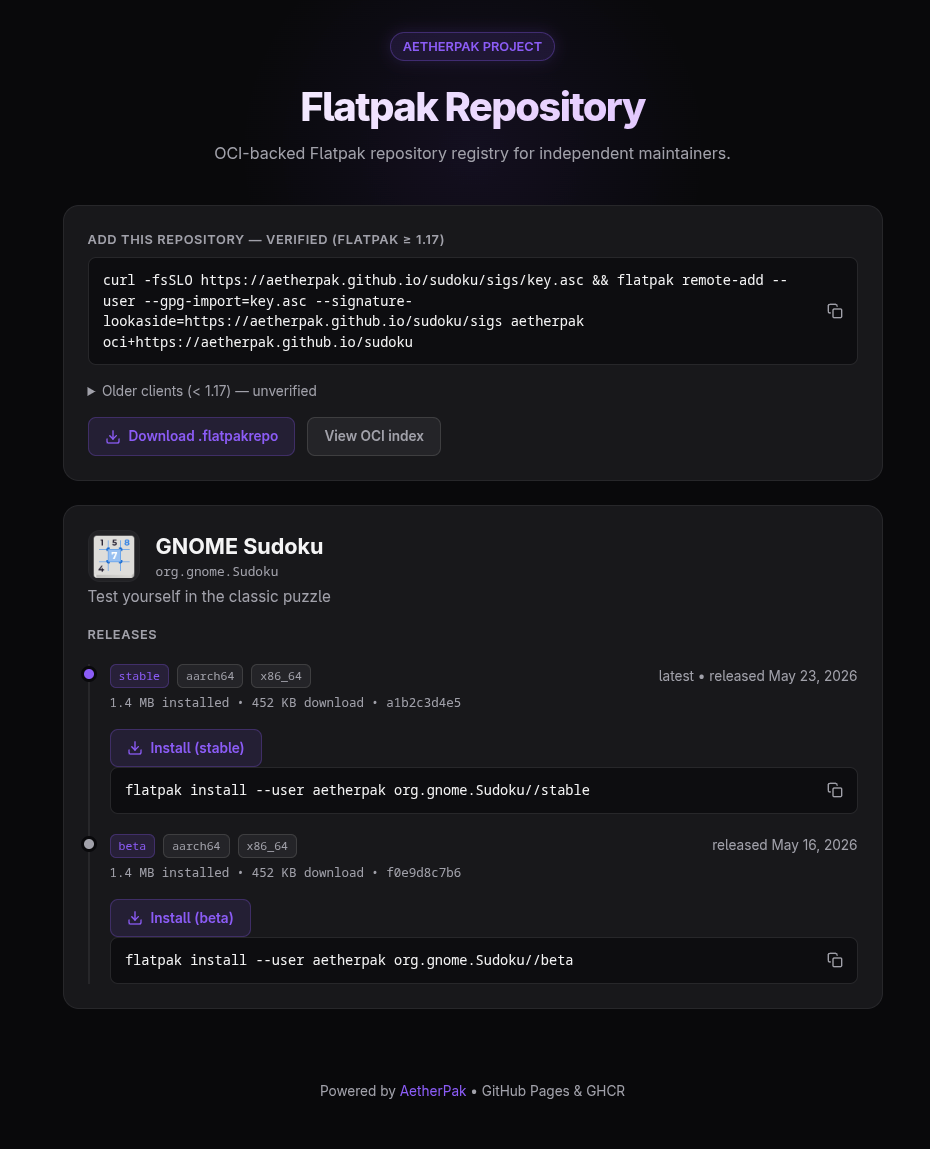
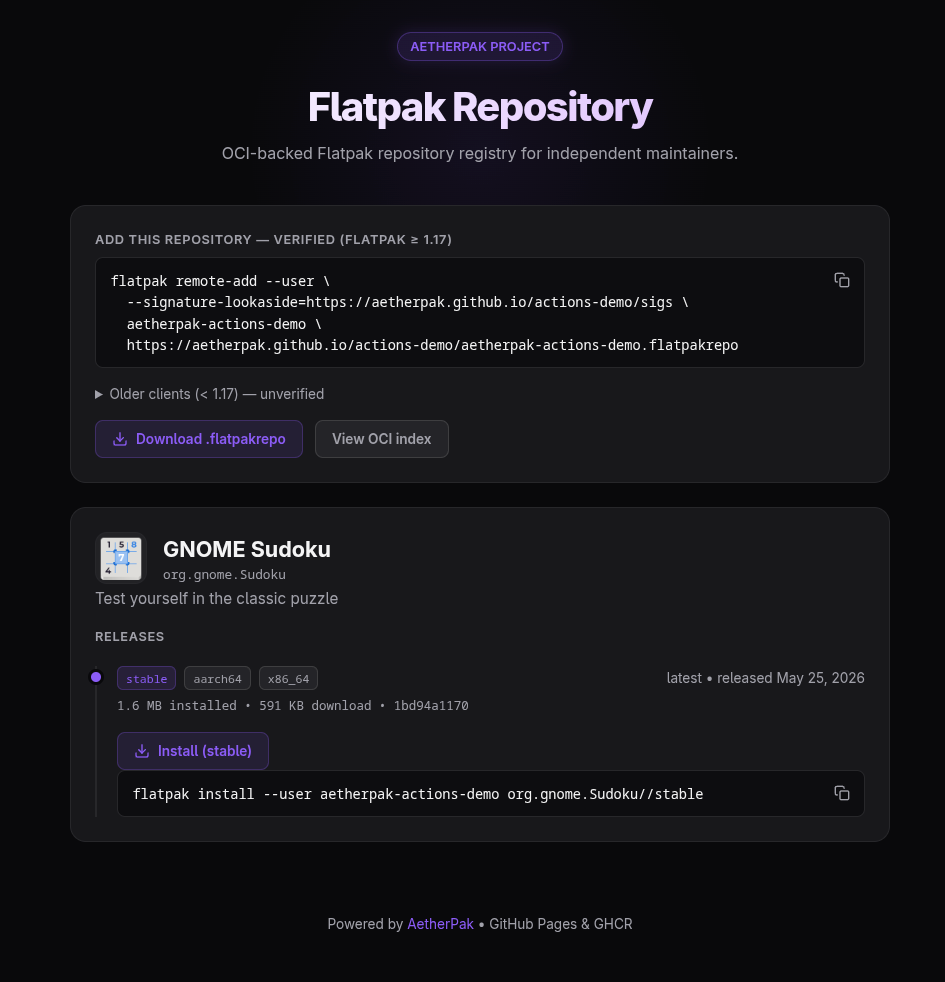
docs(site): use the live actions-demo screenshot, link the demo
Preview now links to the live demo page; adds Live demo / Demo repository
cards to Learn more.

diff --git a/docs/site/index.html b/docs/site/index.html
@@ -76,7 +76,8 @@
     .link-card .t { color: var(--text); font-weight: 600; font-size: 0.95rem; }
     .link-card .d { color: var(--text-muted); font-size: 0.82rem; margin-top: 0.15rem; }
 
-    .preview { margin-top: 1rem; border: 1px solid var(--border); border-radius: 14px; overflow: hidden; box-shadow: 0 12px 40px rgba(0,0,0,0.4), 0 0 30px rgba(139,92,246,0.06); }
+    .preview { display: block; margin-top: 1rem; border: 1px solid var(--border); border-radius: 14px; overflow: hidden; box-shadow: 0 12px 40px rgba(0,0,0,0.4), 0 0 30px rgba(139,92,246,0.06); transition: border-color 0.2s; }
+    .preview:hover { border-color: rgba(139,92,246,0.4); }
     .preview img { display: block; width: 100%; height: auto; }
     .caption { color: var(--text-muted); font-size: 0.85rem; margin-top: 0.7rem; text-align: center; }
     footer { text-align: center; padding: 3.5rem 0 2rem; color: var(--text-muted); font-size: 0.85rem; }
@@ -123,8 +124,8 @@
     <section>
       <h2>What your users get</h2>
       <p>Every repository gets a landing page like this, with a one-click <code>.flatpakref</code> install button and copy-paste commands for each app and channel.</p>
-      <div class="preview"><img src="preview.png" alt="Generated AetherPak registry page showing GNOME Sudoku with install commands" loading="lazy"></div>
-      <p class="caption">The page AetherPak deploys for your repository.</p>
+      <a class="preview" href="https://aetherpak.github.io/actions-demo/" target="_blank" rel="noopener"><img src="preview.png" alt="Live AetherPak actions-demo registry page showing GNOME Sudoku with install commands" loading="lazy"></a>
+      <p class="caption">A live page AetherPak deploys — captured from the <a href="https://github.com/aetherpak/actions-demo" target="_blank" rel="noopener">actions-demo</a> repository.</p>
     </section>
 
     <section>
@@ -266,6 +267,8 @@ jobs:
         <a class="link-card" href="https://github.com/aetherpak/actions/blob/main/README.md"><div class="t">README</div><div class="d">Usage and options</div></a>
         <a class="link-card" href="https://github.com/aetherpak/actions/blob/main/ARCHITECTURE.md"><div class="t">Architecture</div><div class="d">How it works and its limits</div></a>
         <a class="link-card" href="https://github.com/aetherpak/actions/blob/main/CONTRIBUTING.md"><div class="t">Contributing</div><div class="d">Developing and testing</div></a>
+        <a class="link-card" href="https://aetherpak.github.io/actions-demo/"><div class="t">Live demo</div><div class="d">A repository published with AetherPak</div></a>
+        <a class="link-card" href="https://github.com/aetherpak/actions-demo"><div class="t">Demo repository</div><div class="d">A working example to fork</div></a>
       </div>
     </section>
 